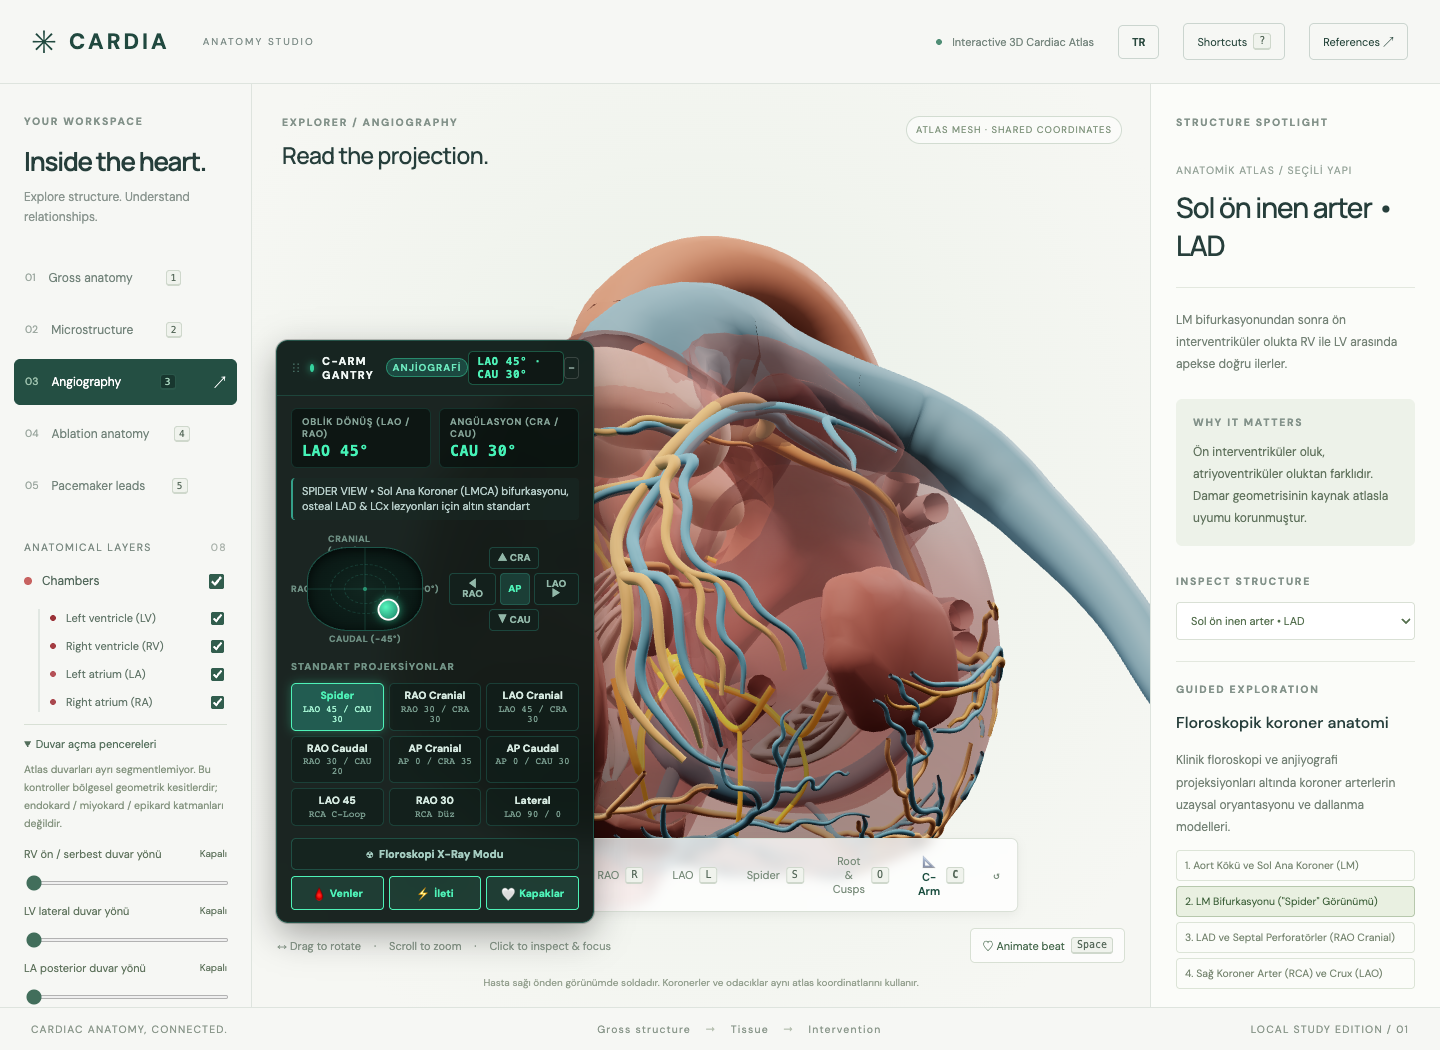
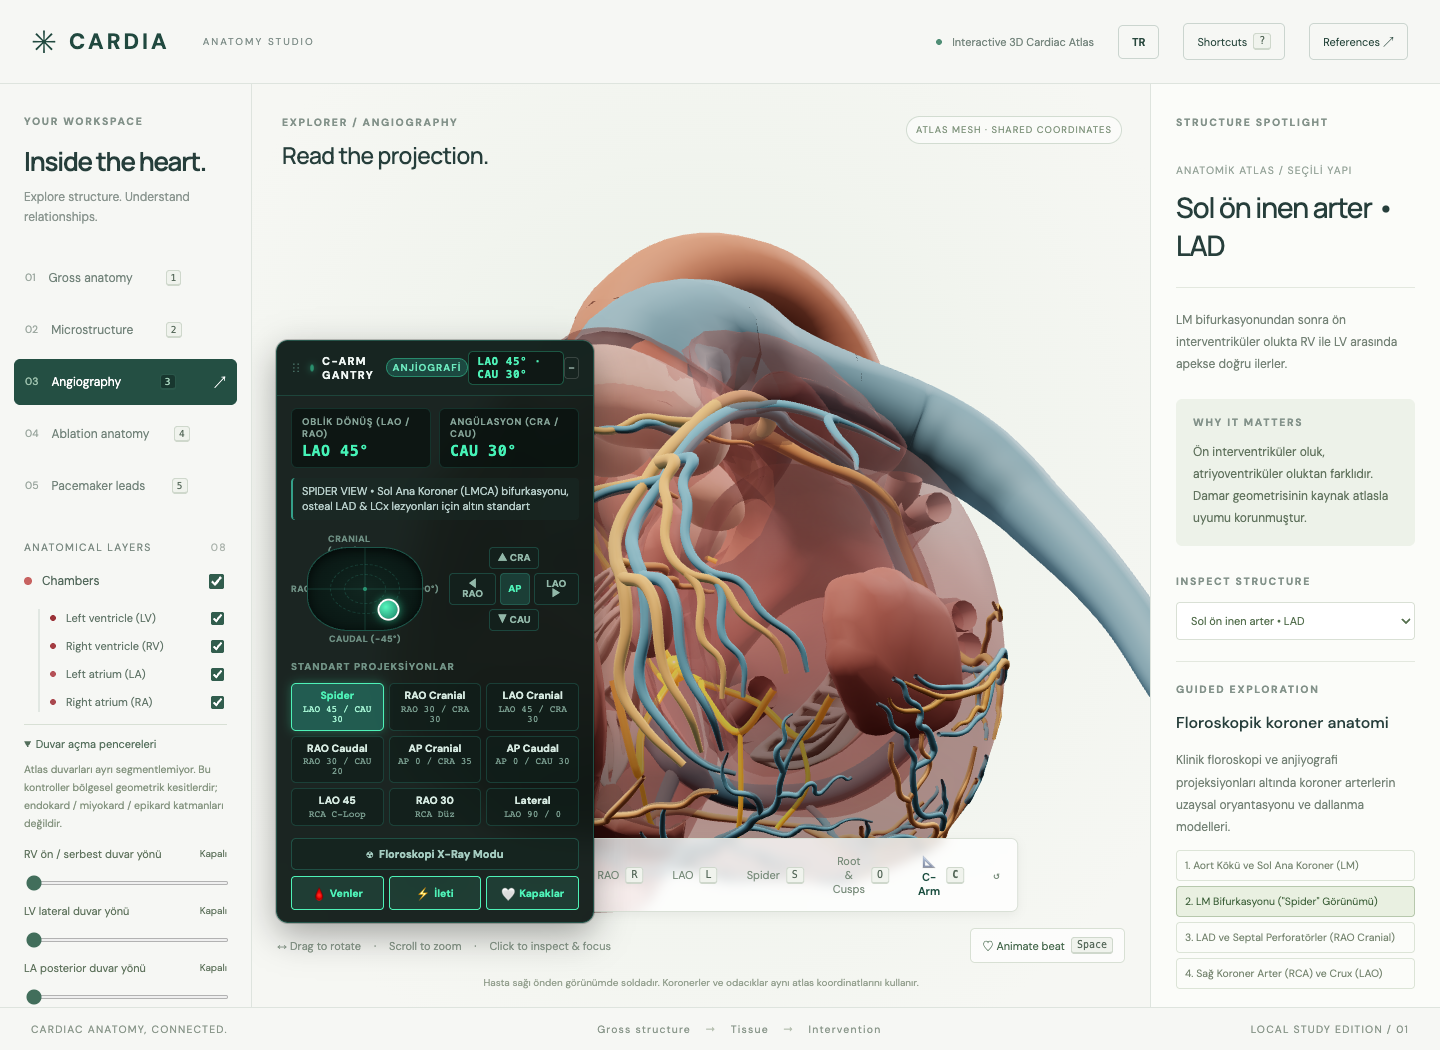
fix: remove non-cardiac marginal artery of colon mistakenly loaded as obtuse marginal branch

diff --git a/src/content.js b/src/content.js
@@ -342,19 +342,6 @@ export const rawStructures = {
     },
     source: 'Ho et al., 2012, PDF pp. 2–3'
   },
-  om: {
-    tr: {
-      title: 'Obtüz marjinal dal • OM',
-      description: 'LCX sisteminden ayrılarak sol ventrikülün serbest lateral duvarına uzanan marjinal arter dalıdır.',
-      clinical: 'Sol ventrikül lateral duvar perfüzyonunu incelerken temel referans daldır.'
-    },
-    en: {
-      title: 'Obtuse marginal branch • OM',
-      description: 'Branch arising from the LCX artery coursing over the lateral obtuse margin of the left ventricle.',
-      clinical: 'Key target in coronary revascularization for lateral LV perfusion.'
-    },
-    source: 'ACC/AHA coronary definitions, 2014'
-  },
   septal: {
     tr: {
       title: 'Septal koroner dallar',

diff --git a/src/atlas.js b/src/atlas.js
@@ -25,7 +25,6 @@ export const atlasParts = {
   'Circumflex artery of heart': entry('lcx','coronaries',0xc5904c,'left'),
   'Right coronary artery': entry('rca','coronaries',0xe3a66c,'right'),
   'Right inferolateral branch of right coronary artery': entry('rpl','coronaries',0xe3a66c,'right'),
-  'Marginal artery': entry('om','coronaries',0xc5904c,'left'),
   'Septal branches of anterior interventricular artery': entry('septal','coronaries',0xd79958,'left'),
   'Coronary sinus': entry('cs','coronaries',0x5187a0,'veins'),
   'Great cardiac vein': entry('gcv','coronaries',0x679db2,'veins'),
